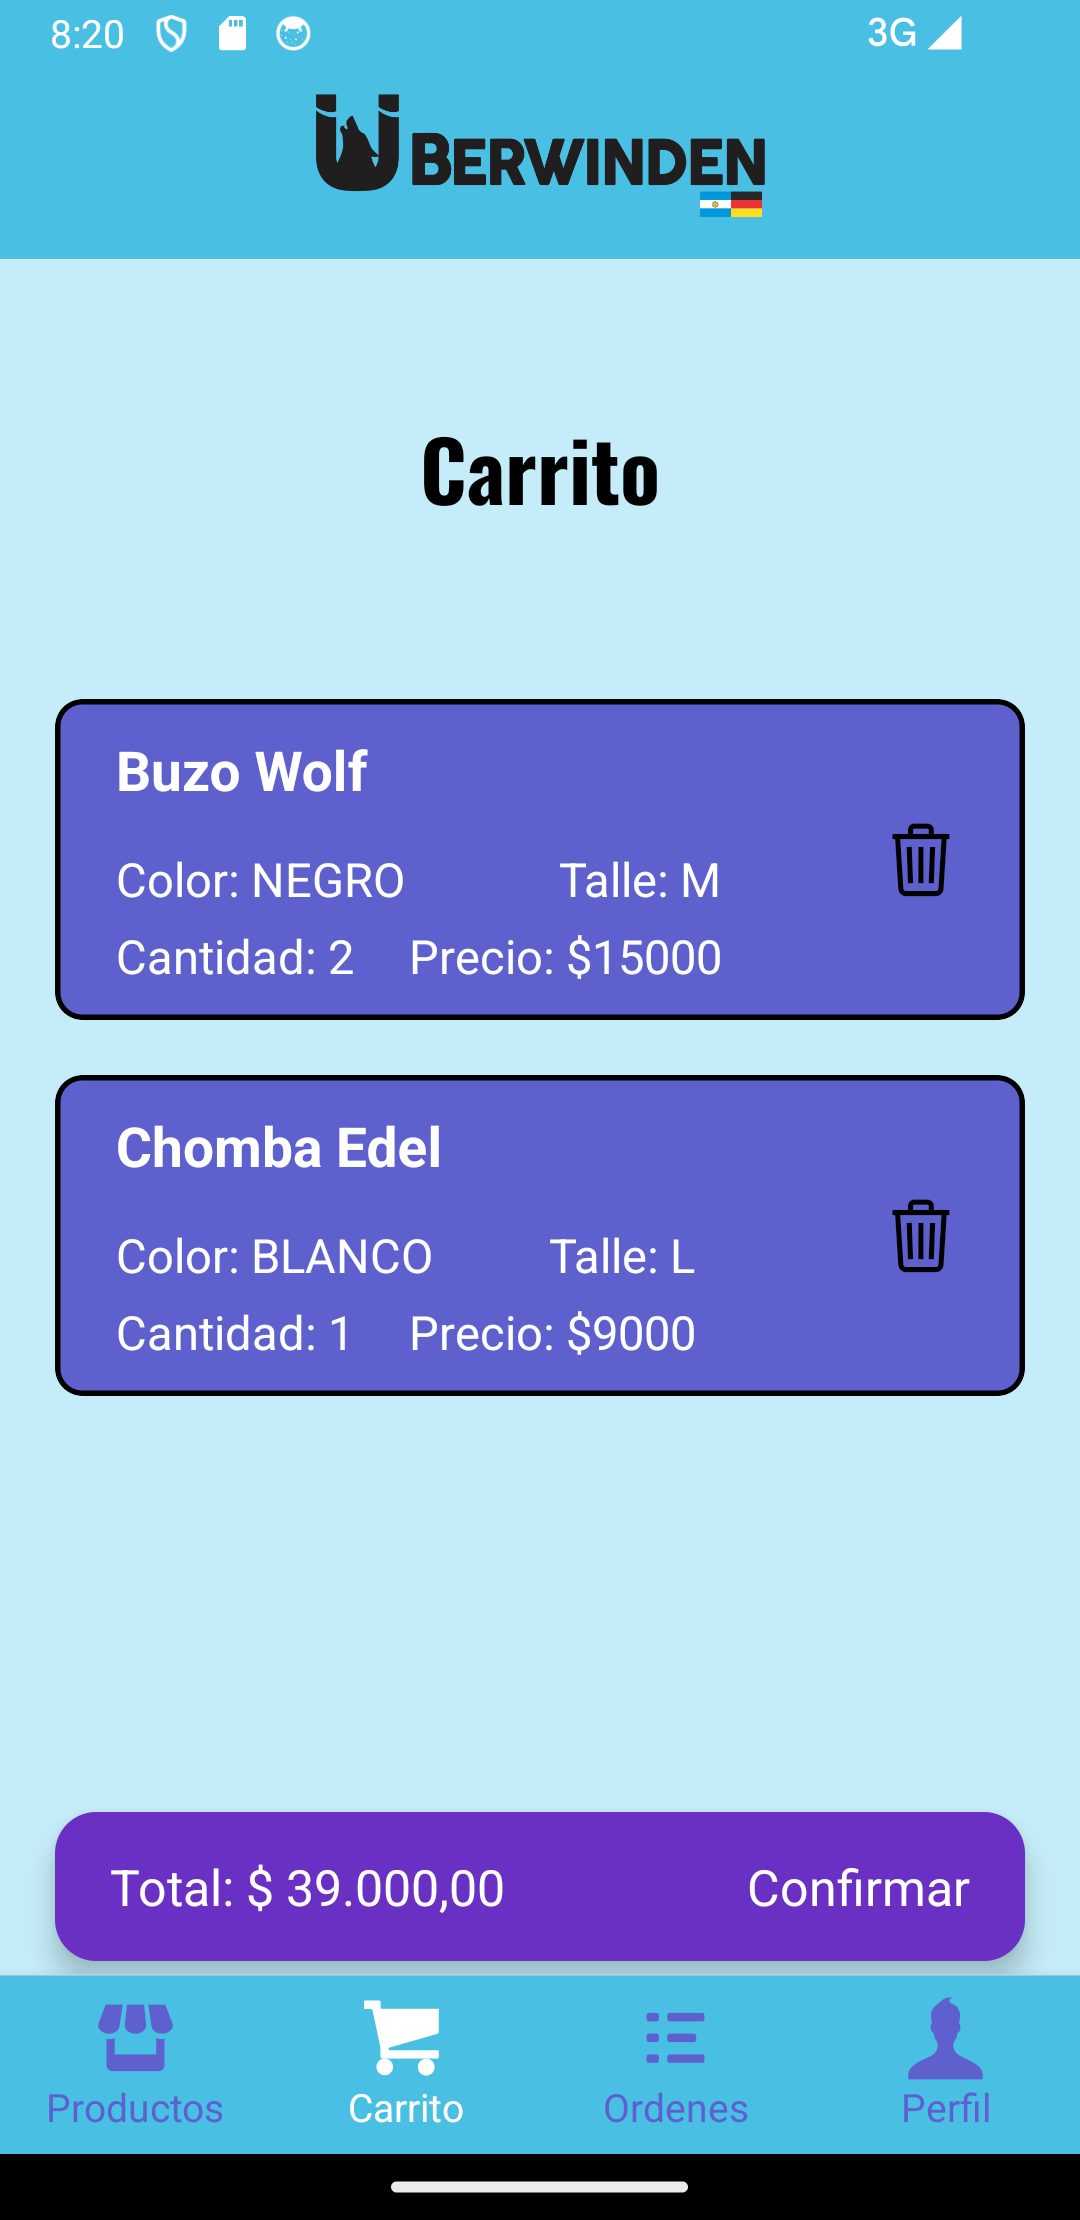
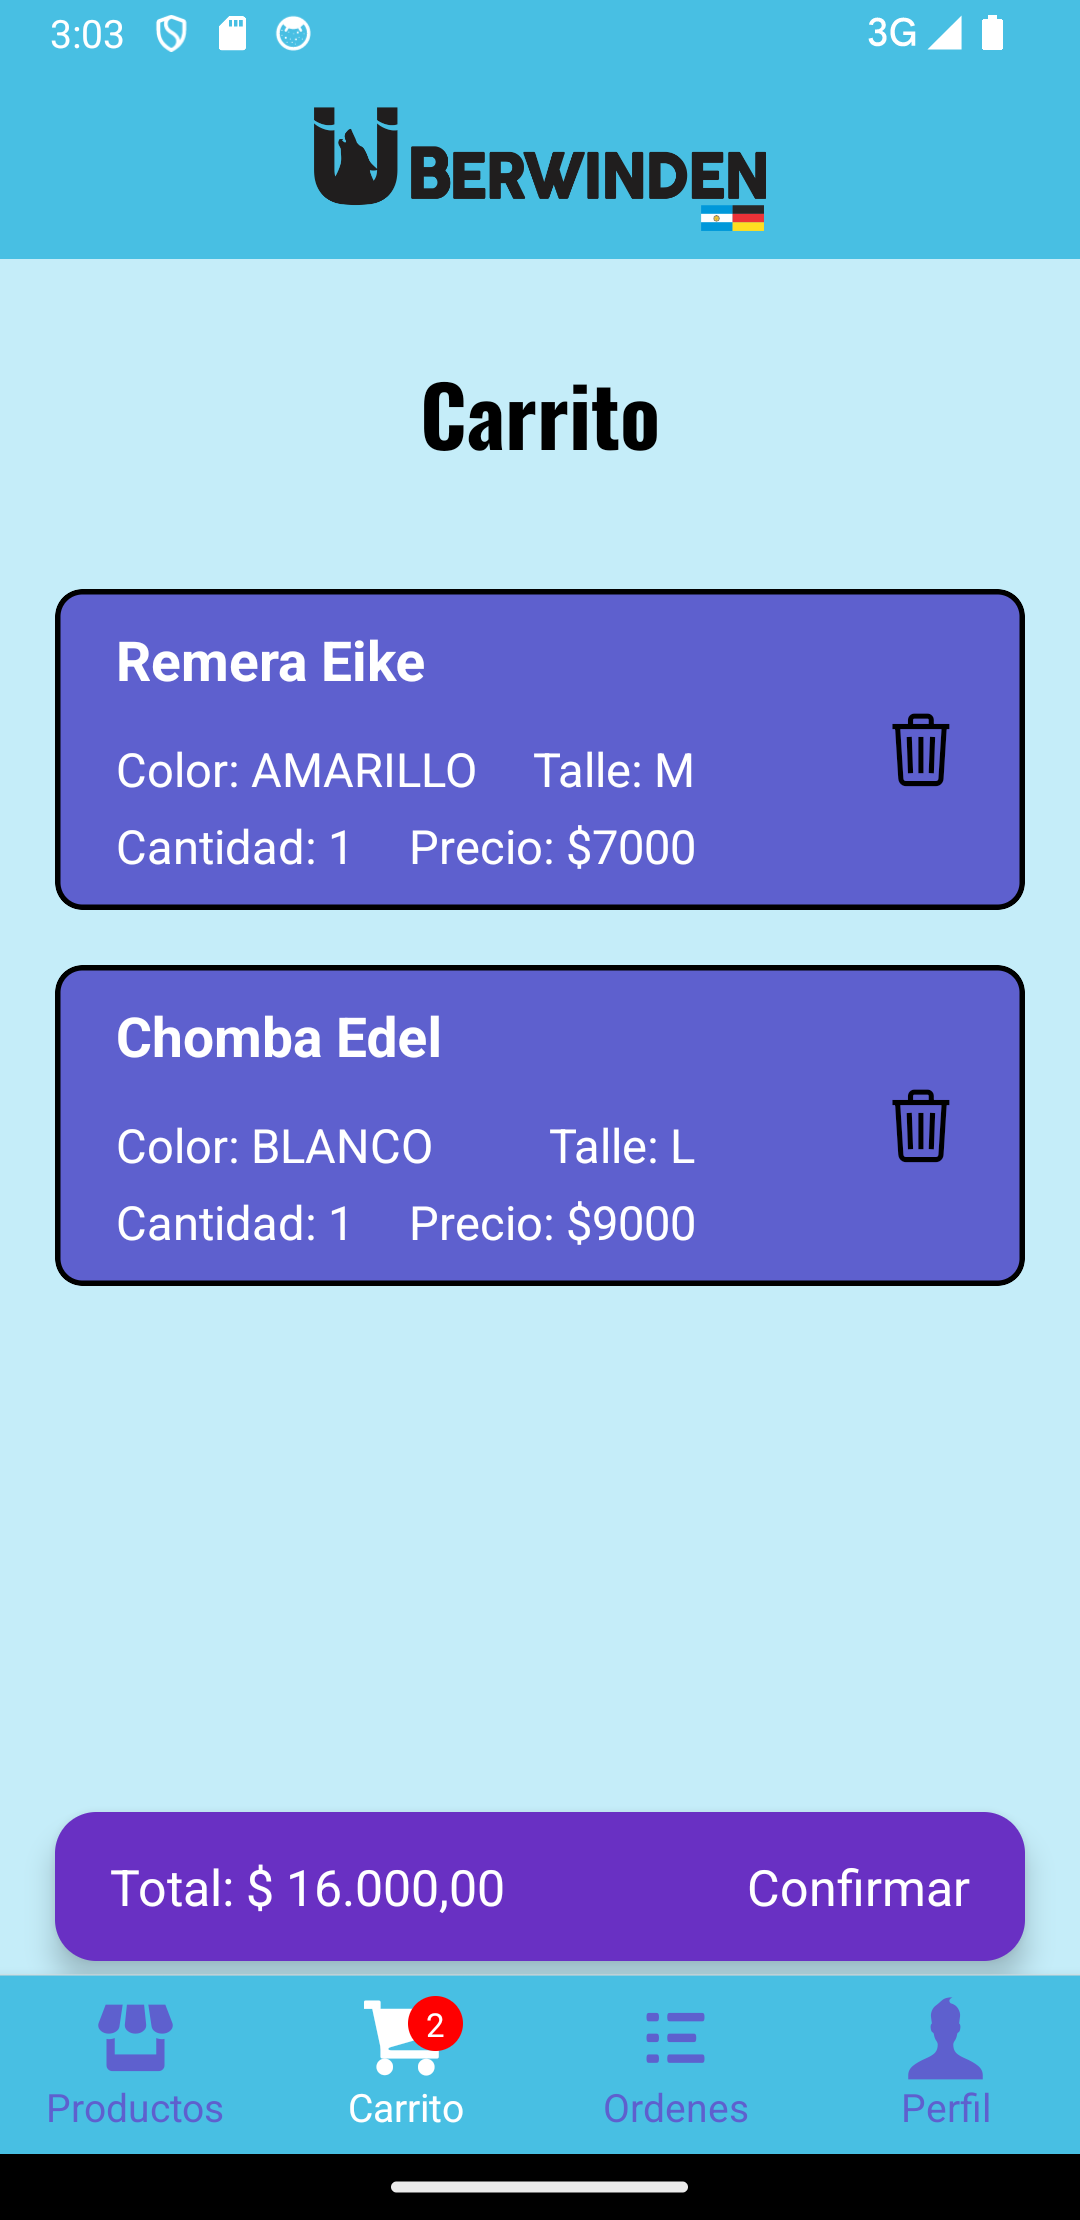
Agregado de cantidad en carrito

diff --git a/src/Features/Cart/cartSlice.js b/src/Features/Cart/cartSlice.js
@@ -5,6 +5,7 @@ const initialState = {
     user:null,
     items:[],
     total:0,
+    cantidad:0,
     date:""
   }
 }
@@ -18,6 +19,7 @@ export const cartSlice = createSlice({
         if(itemFind) itemFind.quantity ++
         else state.value.items.push({...actions.payload, quantity:1})
         state.value.total = state.value.items.reduce((acc, item) => acc + (item.precio * item.quantity),0)
+        state.value.cantidad = state.value.items.reduce((acc, item) => acc + item.quantity,0)
         state.value.date = new Date().toLocaleString()
     },
     removeItem:(state, actions) =>{
@@ -25,12 +27,14 @@ export const cartSlice = createSlice({
       if(itemFind.quantity > 1) itemFind.quantity --
       else state.value.items = state.value.items.filter(item => item.id !== actions.payload.id)
       state.value.total = state.value.items.reduce((acc, item) => acc + (item.precio * item.quantity),0)
+      state.value.cantidad = state.value.items.reduce((acc, item) => acc + item.quantity,0)
       state.value.date = new Date().toLocaleString()
     },
     removeAllItem:(state) =>{
       state.value.items = []
       state.value.total = 0
       state.value.date = ""
+      state.value.cantidad = 0
     },
     addUser:(state, actions) =>{
       state.value.user = actions.payload.localId

diff --git a/src/Components/TabIcon.jsx b/src/Components/TabIcon.jsx
@@ -1,11 +1,20 @@
 import {StyleSheet, Text, View} from 'react-native'
 import {Entypo} from "@expo/vector-icons"
 import {colors} from '../Global/colors'
+import { useSelector } from 'react-redux'
 
 export const TabIcon = ({icon, label, focused}) => {
+
+  const cart = useSelector(state => state.cart.value)
+
   return (
     <View style={styles.container}>
       <Entypo name={icon} size={30} color={focused ? "white" : colors.lila3}/>
+      {label === "Carrito" && cart.cantidad > 0 && (
+        <View style={styles.badge}>
+          <Text style={styles.badgeText}>{cart.cantidad}</Text>
+        </View>
+      )}
       <Text style={{...styles.text, ...{color: focused ? "white" : colors.lila3}}}>{label}</Text>
     </View>
   )
@@ -18,5 +27,20 @@ const styles = StyleSheet.create({
     text:{
         color:"white",
         textAlign:"center"
-    }
+    },
+    badge: {
+      position: 'absolute',
+      top: 0,
+      right: 0,
+      backgroundColor: 'red',
+      borderRadius: 10,
+      minWidth: 20,
+      height: 20,
+      justifyContent: 'center',
+      alignItems: 'center',
+    },
+    badgeText: {
+      color: 'white',
+      fontSize: 12,
+    },
 })

diff --git a/src/Components/Header.jsx b/src/Components/Header.jsx
@@ -32,18 +32,18 @@ const styles = StyleSheet.create({
         backgroundColor:colors.aguamarino1,
         width:"100%",
         height:70,
-        alignItems:"center"
+        alignItems:"center",
     },
     container2:{
       backgroundColor:colors.celeste1,
       width:"100%",
-      height:150,
+      height:110,
       alignItems:"center",
-      justifyContent:"center"
+      justifyContent:"center",
   },
     image:{
       height:45,
-      marginTop: 10,
+      marginTop: 15,
     },
     text:{
         fontSize:30,

diff --git a/src/Screens/ItemDetail.jsx b/src/Screens/ItemDetail.jsx
@@ -35,8 +35,8 @@ export const ItemDetail = ({route}) => {
   //Para agrandar la imagen
 
   const width = Dimensions.get("window").width;
-  const ANCHO_IMAGEN = width;
-  const ALTO_IMAGEN = width;
+  const ANCHO_IMAGEN = width*0.8;
+  const ALTO_IMAGEN = 250;
 
   const escalaImg = useSharedValue(1);
   const focoX = useSharedValue(0);
@@ -132,7 +132,7 @@ const styles = StyleSheet.create({
   },
   image:{
     width:"80%",
-    height:180,
+    height:190,
     borderRadius:20,
     alignSelf:'center',
   },

diff --git a/src/Screens/MyProfile.jsx b/src/Screens/MyProfile.jsx
@@ -2,7 +2,7 @@ import { StyleSheet, View, Image } from 'react-native'
 import { AddButton, AddModal } from '../Components'
 import { colors } from '../Global/colors'
 import { useDispatch } from 'react-redux'
-import { clearUser } from '../Features/auth/authSlice'
+import { clearUser } from '../Features/Auth/authSlice'
 import { useSelector } from 'react-redux'
 import { useGetProfileImageQuery } from '../App/services/shopServices'
 import { deleteAllSession } from '../DataBase'

diff --git a/src/Screens/Signup.jsx b/src/Screens/Signup.jsx
@@ -4,7 +4,7 @@ import { InputForm, AddButton } from '../Components'
 import { colors } from '../Global/colors'
 import { useSignupMutation } from '../App/services/auth'
 import { useDispatch } from 'react-redux'
-import { setUser } from '../Features/auth/authSlice'
+import { setUser } from '../Features/Auth/authSlice'
 import { formValidation } from '../Validations/formValidation'
 import { addUser } from '../Features/Cart/cartSlice'
 import { insertSession } from '../DataBase'

diff --git a/src/Screens/Login.jsx b/src/Screens/Login.jsx
@@ -4,7 +4,7 @@ import { colors } from '../Global/colors'
 import { InputForm, AddButton } from '../Components'
 import { useLoginMutation } from '../App/services/auth'
 import { useDispatch } from 'react-redux'
-import { setUser } from '../Features/auth/authSlice'
+import { setUser } from '../Features/Auth/authSlice'
 import { formLogin } from '../Validations/formValidation'
 import { addUser } from '../Features/Cart/cartSlice'
 import { insertSession } from '../DataBase'

diff --git a/src/App/store.js b/src/App/store.js
@@ -1,7 +1,7 @@
 import { configureStore } from '@reduxjs/toolkit'
 import shopReducer from "../Features/Shop/shopSlice"
 import cartReducer from "../Features/Cart/cartSlice"
-import authReducer from '../Features/auth/authSlice'
+import authReducer from '../Features/Auth/authSlice'
 import { shopApi } from './services/shopServices'
 import { authApi } from './services/auth'
 import { setupListeners } from '@reduxjs/toolkit/query'

diff --git a/src/Navigation/MainNavigator.jsx b/src/Navigation/MainNavigator.jsx
@@ -4,7 +4,7 @@ import { AuthStack  } from './index'
 import { TabNavigator } from './TabNavigator'
 import { useDispatch, useSelector } from 'react-redux'
 import { fechSession } from '../DataBase'
-import { setUser } from '../Features/auth/authSlice'
+import { setUser } from '../Features/Auth/authSlice'
 import { addUser } from '../Features/Cart/cartSlice'
 
 export const MainNavigator = () => {

diff --git a/src/Components/Search.jsx b/src/Components/Search.jsx
@@ -55,6 +55,6 @@ const styles = StyleSheet.create({
       borderRadius:25,
       paddingHorizontal:15,
       paddingVertical:5,
-      marginVertical:20,
+      marginTop:15,
     },
 })

diff --git a/README.md b/README.md
@@ -51,4 +51,4 @@ Este proyecto constituye la entrega final del curso de desarrollo de aplicacione
 
 
 
-© 2023, Mauricio Picca - Proyecto desarrollado como parte del curso de Desarrollo de Aplicaciones.
+© 2024, Mauricio Picca - Proyecto desarrollado como parte del curso de Desarrollo de Aplicaciones.
